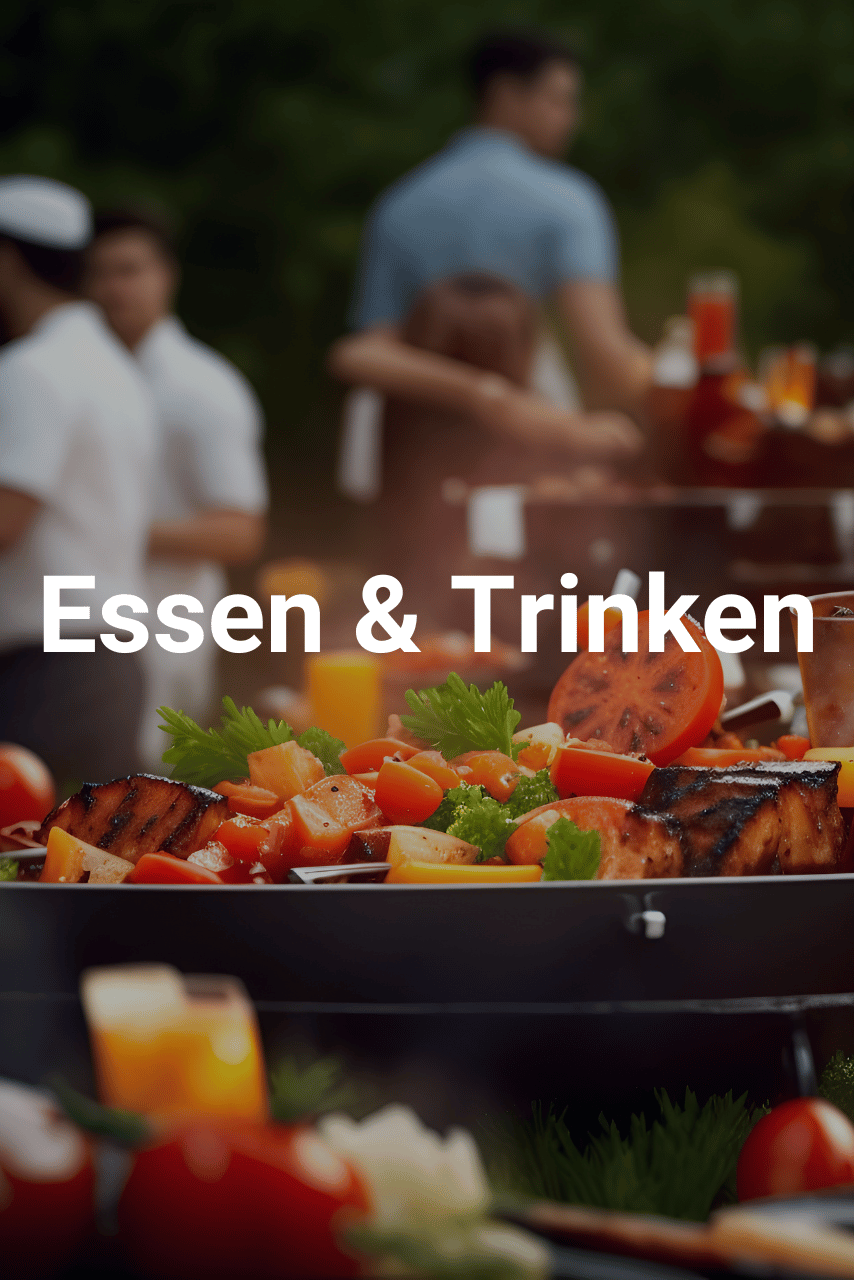
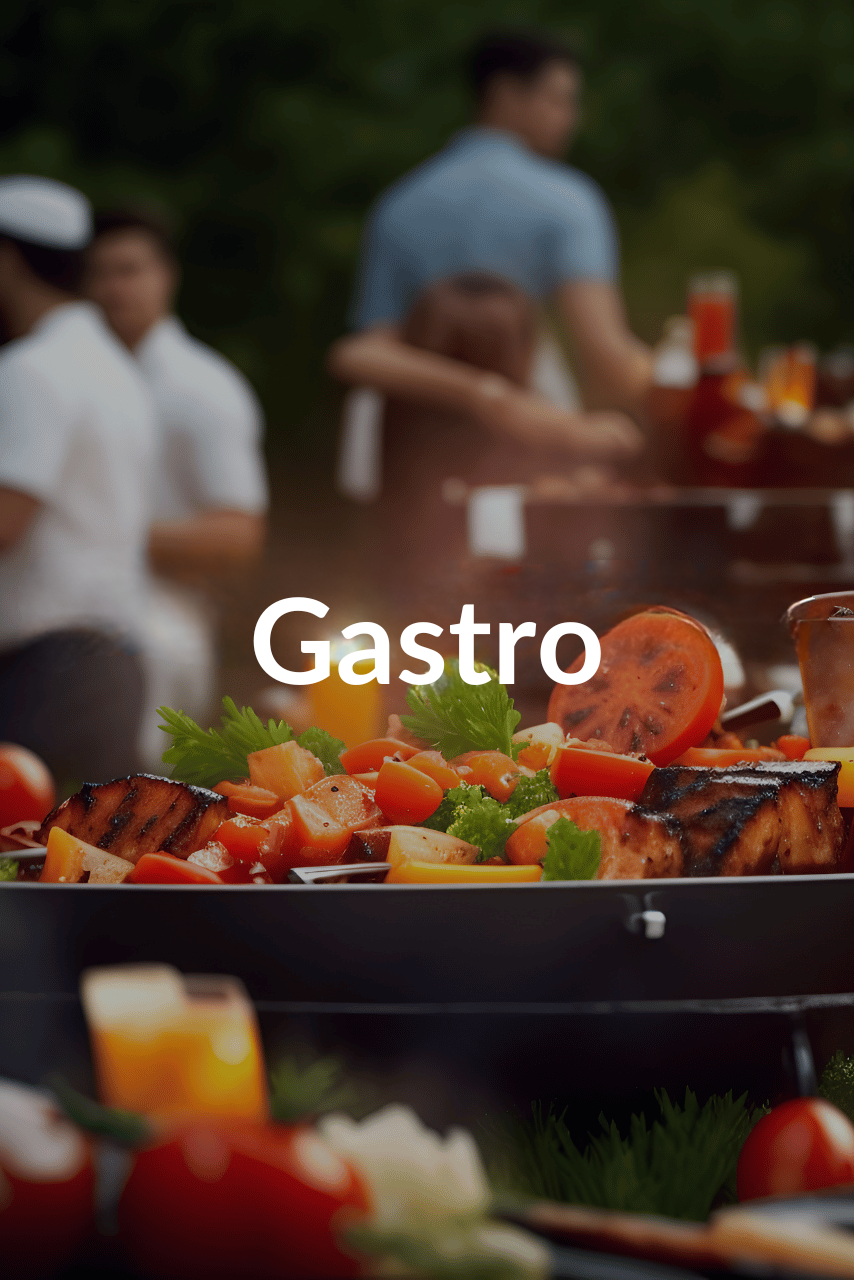
Fixes

Changed region(s): [[0.0304, 0.4375, 0.9742, 0.5625]]

diff --git a/lib/src/presentation/main/home/home_screen/home.dart b/lib/src/presentation/main/home/home_screen/home.dart
@@ -778,20 +778,18 @@ class _HomeScreenState extends State<HomeScreen> {
         physics: const NeverScrollableScrollPhysics(),
         itemBuilder: (context, index) {
           final item = recent[index];
-
-          // Check if the item is an AdDataModel
           if (item is AdDataModel) {
             return GestureDetector(
-              onTap: () {
-                // Redirect to the link associated with the ad
-                _makeAction(item.link);
-              },
+              // onTap: () {
+              //   // Redirect to the link associated with the ad
+              //   _makeAction(item.link);
+              // },
               child: Container(
-                width: double.infinity, // Stretch across the screen
+                width: double.infinity,
                 margin: const EdgeInsets.only(bottom: 16),
                 child: Image.network(
-                  "${Application.picturesURL}${item.image}", // Use the base URL
-                  fit: BoxFit.cover, // Ensure the image covers the container
+                  "${Application.picturesURL}${item.image}",
+                  fit: BoxFit.cover,
                 ),
               ),
             );
